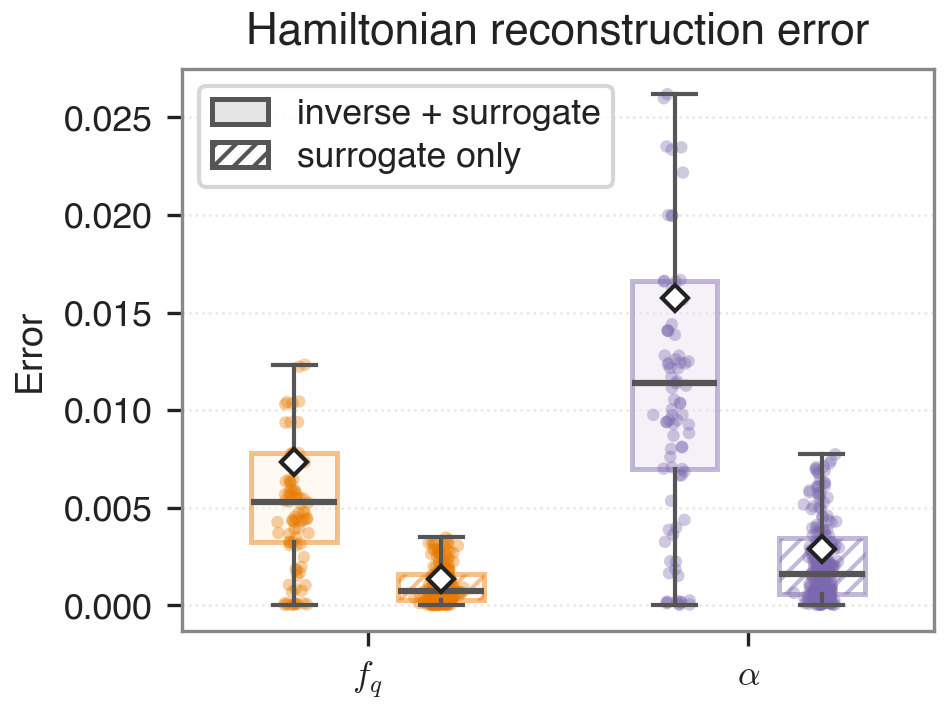
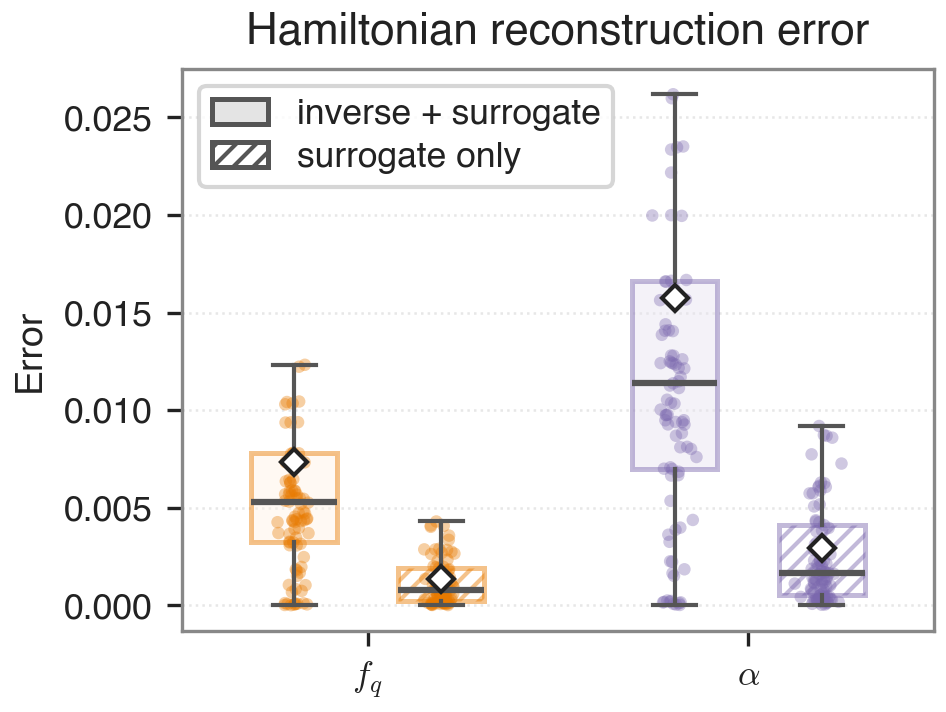
updated surrogate test for just 97 test samples

diff --git a/figures/paper/build_manuscript_exports.py b/figures/paper/build_manuscript_exports.py
@@ -900,7 +900,8 @@ def plot_inverse_surrogate_boxplot() -> None:
     use_paper_style()
 
     # The 97 usable EM simulator-validated designs quoted in the manuscript
-    # (median/mean f_q 0.532%/0.734%, alpha 1.138%/1.575%).
+    # (median/mean f_q 0.532%/0.734%, alpha 1.138%/1.575%). Both box groups in
+    # this figure cover these same 97 designs -- see the matching note below.
     records = json.loads(
         (TRANSMON_DIR / "results" / "validation" / "final_inverse+surrogate_em_sim_results.json").read_text()
     )
@@ -908,10 +909,18 @@ def plot_inverse_surrogate_boxplot() -> None:
     inv_fq = np.array([row["percent_error_frequency"] for row in records]) / 100.0
     inv_ah = np.array([row["percent_error_anharmonicity"] for row in records]) / 100.0
 
-    # Surrogate-only test-set errors for the same frozen forward surrogate used
-    # in the tandem (best_keras_model_model2_surrogate), exported by ml_15's
-    # E_C -> (f_q, alpha) conversion on the 291 held-out test samples.
+    # Surrogate-only errors for the same frozen forward surrogate used in the
+    # tandem (best_keras_model_model2_surrogate), exported by ml_15's
+    # E_C -> (f_q, alpha) conversion over the 291 held-out test samples.
+    #
+    # Restrict to the SAME designs as the inverse+surrogate boxes so the two
+    # groups are a matched comparison rather than different populations. The
+    # JSON "Sample" field is a direct row index into this CSV (verified: the
+    # stored ref Hamiltonians agree to <0.06%), and spans 0-99 with 97 unique
+    # values -- the first 100 test designs, 3 of which were not EM-usable.
     surr_df = pd.read_csv(TRANSMON_DIR / "results" / "predictions" / "model2_fq_alpha_from_EC.csv")
+    matched_idx = np.array([row["Sample"] for row in records], dtype=int)
+    surr_df = surr_df.iloc[matched_idx]
     surr_fq = np.abs((surr_df["fq_pred_GHz"] - surr_df["fq_ref_GHz"]) / surr_df["fq_ref_GHz"]).to_numpy()
     surr_ah = np.abs((surr_df["alpha_pred_MHz"] - surr_df["alpha_ref_MHz"]) / surr_df["alpha_ref_MHz"]).to_numpy()
 
